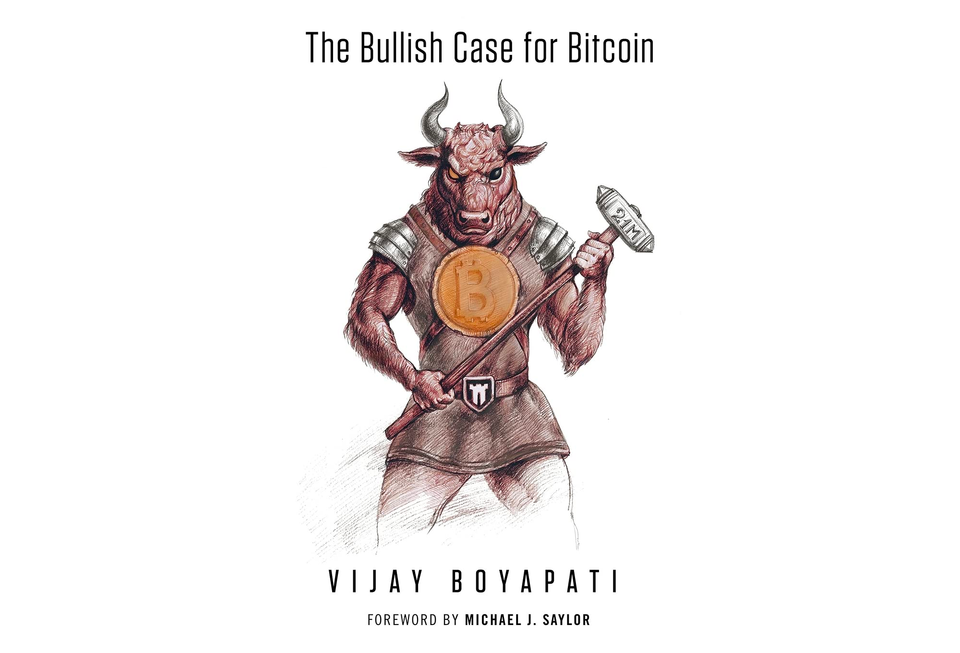
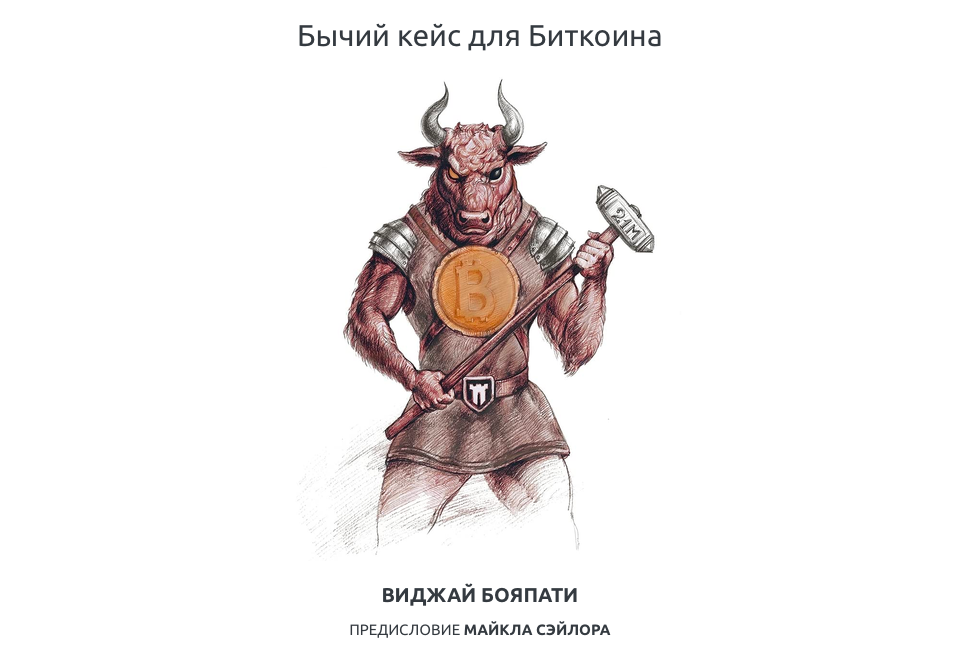
library approved design

Changed region(s): [[0.3438, 0.8576, 0.6562, 0.9801], [0.3125, 0.0306, 0.6875, 0.1225]]

diff --git a/themes/hugo-book/assets/_custom.scss b/themes/hugo-book/assets/_custom.scss
@@ -56,27 +56,65 @@
   opacity: 0.4;
 }
 
+:root {
+  /* Text color variables */
+  --card-text-color-light: #000000; /* Text color for light theme */
+  --card-text-color-dark: #ffffff;  /* Text color for dark theme */
+
+  /* Shadow color variables */
+  --card-shadow-light: rgba(0, 0, 0, 0.2); /* Black shadow for light theme */
+  --card-shadow-dark: rgba(0, 0, 0, 0.2); /* White shadow for dark theme */
+
+  /* Box color variables */
+  --box-color-light: rgb(248, 249, 250); /* Box color for light theme */
+  --box-color-dark: rgb(73, 78, 84);     /* Box color for dark theme */
+}
+
+@media (prefers-color-scheme: dark) {
+  :root {
+    --card-text-color: var(--card-text-color-dark);
+    --card-shadow-color: var(--card-shadow-dark);
+    --box-color: var(--box-color-dark);
+  }
+}
+
+@media (prefers-color-scheme: light) {
+  :root {
+    --card-text-color: var(--card-text-color-light);
+    --card-shadow-color: var(--card-shadow-light);
+    --box-color: var(--box-color-light);
+  }
+}
+
 .custom-page {
   display: grid;                          /* Enables grid layout */
   grid-template-columns: repeat(2, 1fr);  /* Creates 2 equal-width columns */
   grid-template-rows: repeat(2, auto);    /* Creates 2 rows with automatic height based on content */
   gap: 20px;                              /* Space between grid items (cards) */
   justify-content: center;                /* Center the grid horizontally (optional) */
+
+  @media screen and (max-width: 768px) {  /* Adjust for mobile screens */
+    grid-template-columns: 1fr;  /* 1 column for smaller screens */
+  }
 }
 
 .card {
   position: relative;
-  background-color: #343A40;
+  background-color: var(--box-color);
+  color: var(--card-text-color);
   border-radius: 5px;
-  box-shadow: 0 4px 8px rgba(0, 0, 0, 0.2);
+  box-shadow: 0 4px 8px var(--card-shadow-color);
   overflow: hidden;
   margin: 20px;
   text-align: center;
+  display: flex;  
+  flex-direction: column;  
+  justify-content: space-between;
 }
 
 .card img {
   width: 100%;
-  padding-top: 10px;
+  padding-top: 15px;
   margin: 0;
   height: auto;
   display: block;
@@ -85,26 +123,46 @@
 .card-content {
   padding: 15px;
   color: white;
-  margin-top: -50px;
+  display: flex;
+  flex-direction: column;
+  justify-content: space-between; /* Ensure buttons are at the bottom */
+  height: 100%;
+  box-sizing: border-box;
+  color: var(--card-text-color);
+}
+
+.card h2 {
+  margin-top: -5px; /* Negative margin to reduce space between the image and heading */
 }
 
 .button-container {
-  margin-top: 15px;
   display: flex;
   justify-content: center;
+  margin-top: auto; /* Push buttons to the bottom */
 }
 
 .button {
   display: inline-block;
-  padding: 10px 20px;
+  padding: 6px 12px;
   margin: 0 5px;
   background-color: orange;
   color: white;
   text-decoration: none;
   border-radius: 3px;
   font-weight: bold;
+  text-decoration: none;
 }
 
 .button:hover {
-  background-color: darkorange;
+  background-color: darkorange; /* Darken the background color */
+  color: white; /* Ensure text color stays white */
+  box-shadow: 0 4px 15px rgba(0, 0, 0, 0.3); /* Add shadow for a "pop-out" effect */
+  transform: scale(1.02); /* Slightly increase size */
+  text-decoration: none !important; /* Ensure text isn't underlined */
+}
+
+.button:visited {
+  color: white !important; /* Maintain the same color as unvisited */
+  background-color: orange !important;
+  text-decoration: none !important; /* Ensure no underlines or changes */
 }

diff --git a/content.ru/docs/Rabbithole/library.md b/content.ru/docs/Rabbithole/library.md
@@ -16,11 +16,49 @@ url: library
 <div class="custom-page">
 
 <div class="card">
+    <img src="/img/148.png" alt="Обложка">
+    <div class="card-content">
+        <h2>Изобретаем Биткоин</h2>
+            <p><strong>Автор: Ян Прицкер</strong></p> <!-- Bold text -->
+            <p>Самая компактная книга о Биткоине для новичков.</p> <!-- Regular text -->
+            <div class="button-container">
+                <a href="/izobretaem-bitkoin/" class="button">Подробнее</a>
+                <a href="/epubs/inventing-bitcoin.epub" class="button">Скачать</a>
+            </div>
+    </div>
+</div>
+
+<div class="card">
     <img src="/img/149.png" alt="Обложка">
     <div class="card-content">
         <h2>Суверенитет посредством математики</h2>
             <p><strong>Автор: Кнут Сванхольм</strong></p> <!-- Bold text -->
-            <p>Бестселлер, отвечающий на все вопросы о Биткоине.</p> <!-- Regular text -->
+            <p>Одна из лучших книг, призванная познакомить новичков с Биткоином.</p> <!-- Regular text -->
+            <div class="button-container">
+                <a href="/suverenitet-posredstvom-matematiki/" class="button">Подробнее</a>
+                <a href="/epubs/stm.epub" class="button">Скачать</a>
+            </div>
+    </div>
+</div>
+
+<div class="card">
+    <img src="/img/bkb-469.png" alt="Обложка">
+    <div class="card-content">
+        <h2>Бычий кейс для Биткоина</h2>
+            <p><strong>Автор: Виджай Бояпати</strong></p> <!-- Bold text -->
+            <p>Книга, описывающая причины неминуемого стремительного распространения Биткоина.</p> <!-- Regular text -->
+            <div class="button-container">
+                <a href="/bychij-kejs-dlya-bitcoin/" class="button">Подробнее</a>
+            </div>
+    </div>
+</div>
+
+<div class="card">
+    <img src="/img/149.png" alt="Обложка">
+    <div class="card-content">
+        <h2>Суверенитет посредством математики</h2>
+            <p><strong>Автор: Кнут Сванхольм</strong></p> <!-- Bold text -->
+            <p>Одна из лучших книг, призванная познакомить новичков с Биткоином.</p> <!-- Regular text -->
             <div class="button-container">
                 <a href="/path/to/resource1" class="button">Подробнее</a>
                 <a href="/path/to/resource2" class="button">Скачать</a>
@@ -29,17 +67,18 @@ url: library
 </div>
 
 <div class="card">
-    <img src="/img/148.png" alt="Обложка">
+    <img src="/img/149.png" alt="Обложка">
     <div class="card-content">
-        <h2>Изобретаем Биткоин</h2>
-            <p><strong>Автор: Ян Прицкер</strong></p> <!-- Bold text -->
-            <p>Самая компактная книга о Биткоине для новичков.</p> <!-- Regular text -->
+        <h2>Суверенитет посредством математики</h2>
+            <p><strong>Автор: Кнут Сванхольм</strong></p> <!-- Bold text -->
+            <p>Одна из лучших книг, призванная познакомить новичков с Биткоином.</p> <!-- Regular text -->
             <div class="button-container">
                 <a href="/path/to/resource1" class="button">Подробнее</a>
                 <a href="/path/to/resource2" class="button">Скачать</a>
             </div>
     </div>
 </div>
+
 <!-- Add more cards as needed -->
 </br>
 </div>
